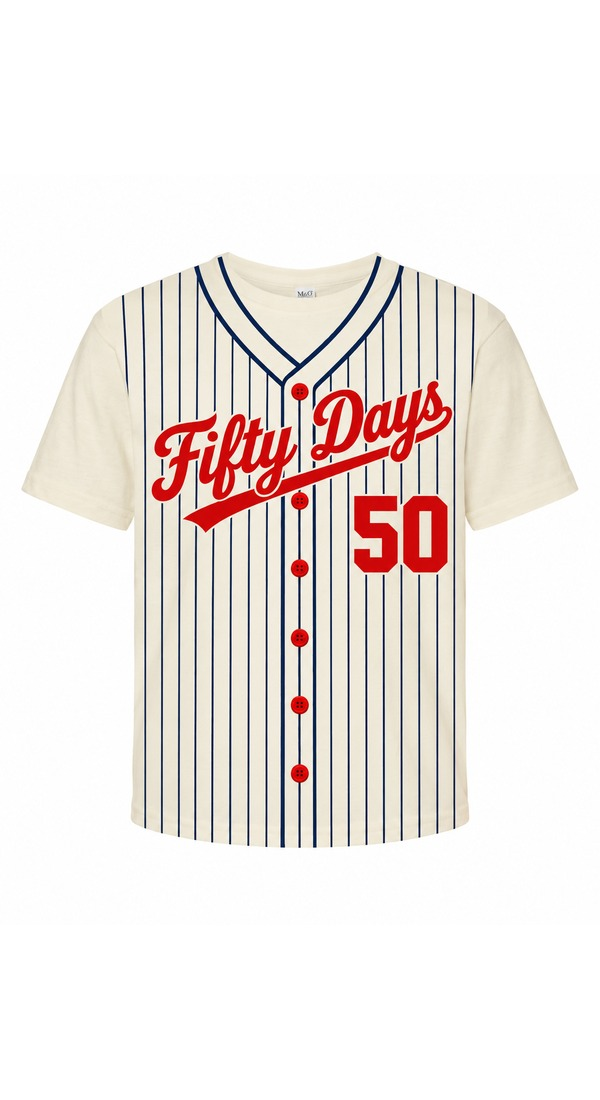
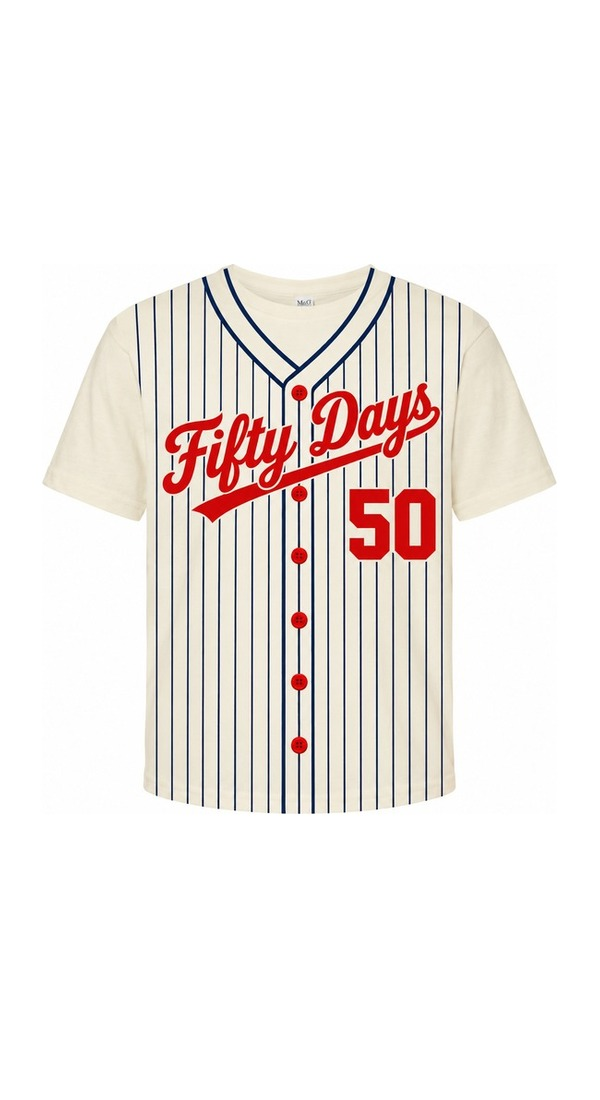
Kindergarten 50s: fix front/back pairing, pricing, and copy accuracy
- Merge Sandy + Pink Ladies into one front(Sandy)/back(Pink Ladies) card on
  a Pink blank, now customizable with the child's name in place of "Sandy"
- Merge R.O. Collar + Rydell into one front/back card (same White blank)
- Add missing back photos: both Pinstripe "sweater" designs (navy + red,
  face cropped out of the red back photo), Baseball-50 (built from the
  real approved pinstripe graphic, not the rejected "CUSTOM" placeholder)
- Replace the old single "Poodle Skirt Set" placeholder photo with two
  real front+back designs: Black Bandana and Pink Collar, each on a
  gold "50" poodle graphic, standardized to match scale
- Rescale all front/back image pairs to a consistent garment size
- Label T-Birds Tee as front-only; rename Bowling's blank to Diving Blue
- Add a youth size chart toggle to the Kindergarten 50 section (reuses
  the existing official Gildan youth measurements)
- Hide the "WEAR THE WIN" hero tagline on the School tab only
- Enlarge the White Wolves logo on the Soccer tab's Performance and
  Buttersoft tee customizers
- Bump SITE_BUILD_ID / version.json to invalidate stale cached pages

Changed region(s): [[0.03, 0.2164, 0.96, 0.7727]]

diff --git a/index.html b/index.html
@@ -1035,6 +1035,8 @@
   <section class="card" id="kinder50">
     <h2>Kindergarten 50s</h2>
     <p class="sub">50th Day of School costume tees — each style is a fixed design on one tee color with a graphic pressed on (shown in the photo), youth sizing XS–M. $25–$30 depending on style — see each card for its price.</p>
+    <button type="button" class="size-chart-link" id="kinder50SizeChartToggle">View size chart</button>
+    <table class="size-chart-table" id="kinder50Chart"></table>
     <div class="product-grid" id="kinder50Grid"></div>
   </section>
 
@@ -1216,7 +1218,7 @@ const NV_SALES_TAX_RATE = 0.08375;
 // date: reload once to pick up the new one, and if it is still stale after that,
 // refuse to render the checkout buttons rather than take a wrong-amount payment.
 // Bump SITE_BUILD_ID and version.json together on every deploy that changes money.
-const SITE_BUILD_ID = '2026-10-04-kinder50-catalog-v2';
+const SITE_BUILD_ID = '2026-10-04-kinder50-catalog-v3';
 let siteBuildStale = false;
 
 function showStaleNotice(){
@@ -2206,8 +2208,8 @@ const WOLVES_COLORS = [
   { key:"white", label:"White", img:"images/perf/white-front.jpg",    back:"images/perf/white-back.jpg",    swatchColor:"#faf8f2" },
   { key:"black", label:"Black", img:"images/perf/black-front.jpg",    back:"images/perf/black-back.jpg",    swatch:"images/perf/black-swatch.jpg" }
 ];
-const WOLVES_LOGO_PLACEMENT = { wolves: { top:"20%", width:"42%" } };
-const WOLVES_BUTTERSOFT_LOGO_PLACEMENT = { wolves: { top:"24%", width:"30%" } };
+const WOLVES_LOGO_PLACEMENT = { wolves: { top:"15%", width:"54%" } };
+const WOLVES_BUTTERSOFT_LOGO_PLACEMENT = { wolves: { top:"16%", width:"52%" } };
 // Real White Wolves team logo, in two ink colors for contrast: dark linework reads best on
 // White/Gray shirts, the light (reversed) version reads best on Black.
 function wolvesLogoFor(colorKey){
@@ -2385,21 +2387,25 @@ refreshWolvesButtersoftCustomizer();
 const KINDER50_SIZES = ["XS (2-4)","S (6-8)","M (10-12)"];
 const KINDER50_CUSTOM_PRICE = 5;
 const KINDER50_PRODUCTS = [
-  { key:'k50-pinstripe', price:30, name:'Fifty Days Pinstripe Jersey', img:'images/kinder50/pinstripe-fiftydays.jpg', color:'Natural', blurb:"Script “Fifty Days” pinstripe baseball jersey look — printed on a Natural blank.", customizable:true, customPlacement:'small script name on the back' },
-  { key:'k50-pinstripe-red', price:30, name:'Fifty Days Pinstripe Jersey — Red', img:'images/kinder50/pinstripe-red.jpg', color:'Red', blurb:"Script “Fifty Days” pinstripe baseball jersey look in red — printed on a Red blank.", customizable:true, customPlacement:'small script name on the back' },
-  { key:'k50-tbirds', price:25, name:'T-Birds Tee', img:'images/kinder50/tbirds.jpg', color:'Black', blurb:"Distressed T-Birds swallow logo — printed on a Black blank." },
+  { key:'k50-pinstripe', price:30, name:'Fifty Days Pinstripe Jersey', img:'images/kinder50/pinstripe-fiftydays.jpg', imgBack:'images/kinder50/pinstripe-fiftydays-back.jpg', color:'Navy', blurb:"Script “Fifty Days” pinstripe baseball jersey look — printed on a Navy blank.", customizable:true, customPlacement:'small script name on the back' },
+  { key:'k50-pinstripe-red', price:30, name:'Fifty Days Pinstripe Jersey — Red', img:'images/kinder50/pinstripe-red.jpg', imgBack:'images/kinder50/pinstripe-red-back.jpg', color:'Red', blurb:"Script “Fifty Days” pinstripe baseball jersey look in red — printed on a Red blank.", customizable:true, customPlacement:'small script name on the back' },
+  { key:'k50-tbirds', price:25, name:'T-Birds Tee (Front Only)', img:'images/kinder50/tbirds.jpg', color:'Black', blurb:"Distressed T-Birds swallow logo — printed on a Black blank. Front only, no back design." },
   { key:'k50-tbirds-jacket', price:30, name:'T-Birds Varsity Jacket Tee', img:'images/kinder50/tbirds-jacket.jpg', imgBack:'images/kinder50/tbirds-jacket-back.jpg', color:'Black', blurb:"Varsity bomber jacket look with the T-Birds logo — printed on a Black blank." },
-  { key:'k50-garage', price:25, name:'Champ Garage Tee', img:'images/kinder50/garage-champ.jpg', color:'Carbon', blurb:"Mechanic-shop look, “Champ” front patch and “50th Day Garage” hot-rod back patch — printed on a Carbon blank.", customizable:true, customPlacement:'name patch in place of “Champ”' },
-  { key:'k50-bowling', price:30, name:'Bowling Night Tee', img:'images/kinder50/bowling.jpg', imgBack:'images/kinder50/bowling-back.jpg', color:'Turquoise', blurb:"Retro bowling shirt look, “Gutter Greasers” and a slanted “50” on the back — printed on a Turquoise blank." },
+  { key:'k50-garage', price:25, name:'Champ Garage Tee', img:'images/kinder50/garage-champ.jpg', color:'Carbon', blurb:"Mechanic-shop look, “BRUH” front patch — printed on a Carbon blank.", customizable:true, customPlacement:'name patch in place of “BRUH”' },
+  { key:'k50-bowling', price:30, name:'Bowling Night Tee', img:'images/kinder50/bowling.jpg', imgBack:'images/kinder50/bowling-back.jpg', color:'Diving Blue', blurb:"Retro bowling shirt look, “Gutter Greasers” and a slanted “50” on the back — printed on a Diving Blue blank." },
   { key:'k50-diner', price:30, name:'50th Day Diner Tee', img:'images/kinder50/diner.jpg', imgBack:'images/kinder50/diner-back.jpg', color:'White', blurb:"Diner apron and bow-tie look — printed on a White blank.", customizable:true, customPlacement:'small script name on the apron tag' },
-  { key:'k50-sandy', price:25, name:'Sandy — Date Night Look', img:'images/kinder50/sandy.jpg', color:'White', blurb:"Off-the-shoulder red tie-bow top, Grease-inspired — printed on a White blank." },
-  { key:'k50-pink-ladies', price:25, name:'Pink Ladies Jacket', img:'images/kinder50/pink-ladies.jpg', color:'Pink', blurb:"Pink Ladies satin jacket look with a back tie bow — printed on a Pink blank." },
-  { key:'k50-poodle', price:30, name:'Poodle Skirt Set', img:'images/kinder50/poodle.jpg', color:'White', blurb:"50s poodle-skirt look with a scallop collar — printed on a White blank.", customizable:true, customPlacement:'small name patch on the collar' },
-  { key:'k50-baseball-50', price:30, name:'Fifty Days Baseball Jersey', img:'images/kinder50/baseball-50.jpg', color:'Natural', blurb:"Pinstripe baseball jersey with a bold “50” on the back — printed on a Natural blank." },
+  { key:'k50-sandy', price:30, name:'Sandy & Pink Ladies Tee', img:'images/kinder50/sandy.jpg', imgBack:'images/kinder50/pink-ladies-back.jpg', color:'Pink', blurb:"“Sandy” polka-dot bandana collar graphic on the front, “Pink Ladies” script on the back — printed on a Pink blank.", customizable:true, customPlacement:'child\'s name in place of “Sandy” on the front' },
+  { key:'k50-poodle-bandana', price:30, name:'Poodle Skirt Set — Black Bandana', img:'images/kinder50/poodle-black.jpg', imgBack:'images/kinder50/poodle-black-back.jpg', color:'White', blurb:"50s poodle-skirt look with a black polka-dot bandana collar and a gold “50” — printed on a White blank.", customizable:true, customPlacement:'small name patch below the collar' },
+  { key:'k50-poodle-collar', price:30, name:'Poodle Skirt Set — Pink Collar', img:'images/kinder50/poodle-pink.jpg', imgBack:'images/kinder50/poodle-pink-back.jpg', color:'White', blurb:"50s poodle-skirt look with a pink scallop collar and a gold “50” — printed on a White blank.", customizable:true, customPlacement:'small name patch below the collar' },
+  { key:'k50-baseball-50', price:30, name:'Fifty Days Baseball Jersey', img:'images/kinder50/baseball-50.jpg', imgBack:'images/kinder50/baseball-50-back.jpg', color:'Natural', blurb:"Pinstripe baseball jersey with a bold “50” on the back — printed on a Natural blank." },
   { key:'k50-baseball-peaches', price:30, name:'“Peaches” Baseball Tee', img:'images/kinder50/baseball-peaches.jpg', imgBack:'images/kinder50/baseball-peaches-back.jpg', color:'Cream', blurb:"A League of Their Own-inspired “Peaches” baseball look — printed on a Cream blank." },
-  { key:'k50-ro-collar', price:25, name:'R.O. Collar Tee', img:'images/kinder50/ro-collar.jpg', color:'White', blurb:"Collared tee with a megaphone “R” graphic — printed on a White blank." },
-  { key:'k50-rydell', price:25, name:'Rydell Tee', img:'images/kinder50/rydell.jpg', color:'White', blurb:"Arched “RYDELL” script back graphic, Grease-inspired — printed on a White blank." }
+  { key:'k50-ro-collar', price:30, name:'R.O. Collar & Rydell Tee', img:'images/kinder50/ro-collar.jpg', imgBack:'images/kinder50/rydell-back.jpg', color:'White', blurb:"Collared tee with a megaphone “R” graphic on the front, arched “Rydell” script on the back — printed on a White blank." }
 ];
+
+buildSizeChart(document.getElementById('kinder50Chart'), YOUTH_MEASUREMENTS);
+document.getElementById('kinder50SizeChartToggle').addEventListener('click', () => {
+  document.getElementById('kinder50Chart').classList.toggle('show');
+});
 
 const kinder50GridEl = document.getElementById('kinder50Grid');
 KINDER50_PRODUCTS.forEach(p => {
@@ -2492,6 +2498,8 @@ document.getElementById('tabBar').addEventListener('click', (e) => {
   document.querySelectorAll('.tab-panel').forEach(panel => {
     panel.hidden = panel.dataset.tabPanel !== target;
   });
+  const taglineEl = document.querySelector('.hero .tagline');
+  if (taglineEl) taglineEl.style.display = (target === 'school') ? 'none' : '';
   window.scrollTo({ top: document.getElementById('tabBar').offsetTop - 10, behavior: 'smooth' });
 });
 

diff --git a/order.html b/order.html
@@ -1035,6 +1035,8 @@
   <section class="card" id="kinder50">
     <h2>Kindergarten 50s</h2>
     <p class="sub">50th Day of School costume tees — each style is a fixed design on one tee color with a graphic pressed on (shown in the photo), youth sizing XS–M. $25–$30 depending on style — see each card for its price.</p>
+    <button type="button" class="size-chart-link" id="kinder50SizeChartToggle">View size chart</button>
+    <table class="size-chart-table" id="kinder50Chart"></table>
     <div class="product-grid" id="kinder50Grid"></div>
   </section>
 
@@ -1216,7 +1218,7 @@ const NV_SALES_TAX_RATE = 0.08375;
 // date: reload once to pick up the new one, and if it is still stale after that,
 // refuse to render the checkout buttons rather than take a wrong-amount payment.
 // Bump SITE_BUILD_ID and version.json together on every deploy that changes money.
-const SITE_BUILD_ID = '2026-10-04-kinder50-catalog-v2';
+const SITE_BUILD_ID = '2026-10-04-kinder50-catalog-v3';
 let siteBuildStale = false;
 
 function showStaleNotice(){
@@ -2206,8 +2208,8 @@ const WOLVES_COLORS = [
   { key:"white", label:"White", img:"images/perf/white-front.jpg",    back:"images/perf/white-back.jpg",    swatchColor:"#faf8f2" },
   { key:"black", label:"Black", img:"images/perf/black-front.jpg",    back:"images/perf/black-back.jpg",    swatch:"images/perf/black-swatch.jpg" }
 ];
-const WOLVES_LOGO_PLACEMENT = { wolves: { top:"20%", width:"42%" } };
-const WOLVES_BUTTERSOFT_LOGO_PLACEMENT = { wolves: { top:"24%", width:"30%" } };
+const WOLVES_LOGO_PLACEMENT = { wolves: { top:"15%", width:"54%" } };
+const WOLVES_BUTTERSOFT_LOGO_PLACEMENT = { wolves: { top:"16%", width:"52%" } };
 // Real White Wolves team logo, in two ink colors for contrast: dark linework reads best on
 // White/Gray shirts, the light (reversed) version reads best on Black.
 function wolvesLogoFor(colorKey){
@@ -2385,21 +2387,25 @@ refreshWolvesButtersoftCustomizer();
 const KINDER50_SIZES = ["XS (2-4)","S (6-8)","M (10-12)"];
 const KINDER50_CUSTOM_PRICE = 5;
 const KINDER50_PRODUCTS = [
-  { key:'k50-pinstripe', price:30, name:'Fifty Days Pinstripe Jersey', img:'images/kinder50/pinstripe-fiftydays.jpg', color:'Natural', blurb:"Script “Fifty Days” pinstripe baseball jersey look — printed on a Natural blank.", customizable:true, customPlacement:'small script name on the back' },
-  { key:'k50-pinstripe-red', price:30, name:'Fifty Days Pinstripe Jersey — Red', img:'images/kinder50/pinstripe-red.jpg', color:'Red', blurb:"Script “Fifty Days” pinstripe baseball jersey look in red — printed on a Red blank.", customizable:true, customPlacement:'small script name on the back' },
-  { key:'k50-tbirds', price:25, name:'T-Birds Tee', img:'images/kinder50/tbirds.jpg', color:'Black', blurb:"Distressed T-Birds swallow logo — printed on a Black blank." },
+  { key:'k50-pinstripe', price:30, name:'Fifty Days Pinstripe Jersey', img:'images/kinder50/pinstripe-fiftydays.jpg', imgBack:'images/kinder50/pinstripe-fiftydays-back.jpg', color:'Navy', blurb:"Script “Fifty Days” pinstripe baseball jersey look — printed on a Navy blank.", customizable:true, customPlacement:'small script name on the back' },
+  { key:'k50-pinstripe-red', price:30, name:'Fifty Days Pinstripe Jersey — Red', img:'images/kinder50/pinstripe-red.jpg', imgBack:'images/kinder50/pinstripe-red-back.jpg', color:'Red', blurb:"Script “Fifty Days” pinstripe baseball jersey look in red — printed on a Red blank.", customizable:true, customPlacement:'small script name on the back' },
+  { key:'k50-tbirds', price:25, name:'T-Birds Tee (Front Only)', img:'images/kinder50/tbirds.jpg', color:'Black', blurb:"Distressed T-Birds swallow logo — printed on a Black blank. Front only, no back design." },
   { key:'k50-tbirds-jacket', price:30, name:'T-Birds Varsity Jacket Tee', img:'images/kinder50/tbirds-jacket.jpg', imgBack:'images/kinder50/tbirds-jacket-back.jpg', color:'Black', blurb:"Varsity bomber jacket look with the T-Birds logo — printed on a Black blank." },
-  { key:'k50-garage', price:25, name:'Champ Garage Tee', img:'images/kinder50/garage-champ.jpg', color:'Carbon', blurb:"Mechanic-shop look, “Champ” front patch and “50th Day Garage” hot-rod back patch — printed on a Carbon blank.", customizable:true, customPlacement:'name patch in place of “Champ”' },
-  { key:'k50-bowling', price:30, name:'Bowling Night Tee', img:'images/kinder50/bowling.jpg', imgBack:'images/kinder50/bowling-back.jpg', color:'Turquoise', blurb:"Retro bowling shirt look, “Gutter Greasers” and a slanted “50” on the back — printed on a Turquoise blank." },
+  { key:'k50-garage', price:25, name:'Champ Garage Tee', img:'images/kinder50/garage-champ.jpg', color:'Carbon', blurb:"Mechanic-shop look, “BRUH” front patch — printed on a Carbon blank.", customizable:true, customPlacement:'name patch in place of “BRUH”' },
+  { key:'k50-bowling', price:30, name:'Bowling Night Tee', img:'images/kinder50/bowling.jpg', imgBack:'images/kinder50/bowling-back.jpg', color:'Diving Blue', blurb:"Retro bowling shirt look, “Gutter Greasers” and a slanted “50” on the back — printed on a Diving Blue blank." },
   { key:'k50-diner', price:30, name:'50th Day Diner Tee', img:'images/kinder50/diner.jpg', imgBack:'images/kinder50/diner-back.jpg', color:'White', blurb:"Diner apron and bow-tie look — printed on a White blank.", customizable:true, customPlacement:'small script name on the apron tag' },
-  { key:'k50-sandy', price:25, name:'Sandy — Date Night Look', img:'images/kinder50/sandy.jpg', color:'White', blurb:"Off-the-shoulder red tie-bow top, Grease-inspired — printed on a White blank." },
-  { key:'k50-pink-ladies', price:25, name:'Pink Ladies Jacket', img:'images/kinder50/pink-ladies.jpg', color:'Pink', blurb:"Pink Ladies satin jacket look with a back tie bow — printed on a Pink blank." },
-  { key:'k50-poodle', price:30, name:'Poodle Skirt Set', img:'images/kinder50/poodle.jpg', color:'White', blurb:"50s poodle-skirt look with a scallop collar — printed on a White blank.", customizable:true, customPlacement:'small name patch on the collar' },
-  { key:'k50-baseball-50', price:30, name:'Fifty Days Baseball Jersey', img:'images/kinder50/baseball-50.jpg', color:'Natural', blurb:"Pinstripe baseball jersey with a bold “50” on the back — printed on a Natural blank." },
+  { key:'k50-sandy', price:30, name:'Sandy & Pink Ladies Tee', img:'images/kinder50/sandy.jpg', imgBack:'images/kinder50/pink-ladies-back.jpg', color:'Pink', blurb:"“Sandy” polka-dot bandana collar graphic on the front, “Pink Ladies” script on the back — printed on a Pink blank.", customizable:true, customPlacement:'child\'s name in place of “Sandy” on the front' },
+  { key:'k50-poodle-bandana', price:30, name:'Poodle Skirt Set — Black Bandana', img:'images/kinder50/poodle-black.jpg', imgBack:'images/kinder50/poodle-black-back.jpg', color:'White', blurb:"50s poodle-skirt look with a black polka-dot bandana collar and a gold “50” — printed on a White blank.", customizable:true, customPlacement:'small name patch below the collar' },
+  { key:'k50-poodle-collar', price:30, name:'Poodle Skirt Set — Pink Collar', img:'images/kinder50/poodle-pink.jpg', imgBack:'images/kinder50/poodle-pink-back.jpg', color:'White', blurb:"50s poodle-skirt look with a pink scallop collar and a gold “50” — printed on a White blank.", customizable:true, customPlacement:'small name patch below the collar' },
+  { key:'k50-baseball-50', price:30, name:'Fifty Days Baseball Jersey', img:'images/kinder50/baseball-50.jpg', imgBack:'images/kinder50/baseball-50-back.jpg', color:'Natural', blurb:"Pinstripe baseball jersey with a bold “50” on the back — printed on a Natural blank." },
   { key:'k50-baseball-peaches', price:30, name:'“Peaches” Baseball Tee', img:'images/kinder50/baseball-peaches.jpg', imgBack:'images/kinder50/baseball-peaches-back.jpg', color:'Cream', blurb:"A League of Their Own-inspired “Peaches” baseball look — printed on a Cream blank." },
-  { key:'k50-ro-collar', price:25, name:'R.O. Collar Tee', img:'images/kinder50/ro-collar.jpg', color:'White', blurb:"Collared tee with a megaphone “R” graphic — printed on a White blank." },
-  { key:'k50-rydell', price:25, name:'Rydell Tee', img:'images/kinder50/rydell.jpg', color:'White', blurb:"Arched “RYDELL” script back graphic, Grease-inspired — printed on a White blank." }
+  { key:'k50-ro-collar', price:30, name:'R.O. Collar & Rydell Tee', img:'images/kinder50/ro-collar.jpg', imgBack:'images/kinder50/rydell-back.jpg', color:'White', blurb:"Collared tee with a megaphone “R” graphic on the front, arched “Rydell” script on the back — printed on a White blank." }
 ];
+
+buildSizeChart(document.getElementById('kinder50Chart'), YOUTH_MEASUREMENTS);
+document.getElementById('kinder50SizeChartToggle').addEventListener('click', () => {
+  document.getElementById('kinder50Chart').classList.toggle('show');
+});
 
 const kinder50GridEl = document.getElementById('kinder50Grid');
 KINDER50_PRODUCTS.forEach(p => {
@@ -2492,6 +2498,8 @@ document.getElementById('tabBar').addEventListener('click', (e) => {
   document.querySelectorAll('.tab-panel').forEach(panel => {
     panel.hidden = panel.dataset.tabPanel !== target;
   });
+  const taglineEl = document.querySelector('.hero .tagline');
+  if (taglineEl) taglineEl.style.display = (target === 'school') ? 'none' : '';
   window.scrollTo({ top: document.getElementById('tabBar').offsetTop - 10, behavior: 'smooth' });
 });
 
